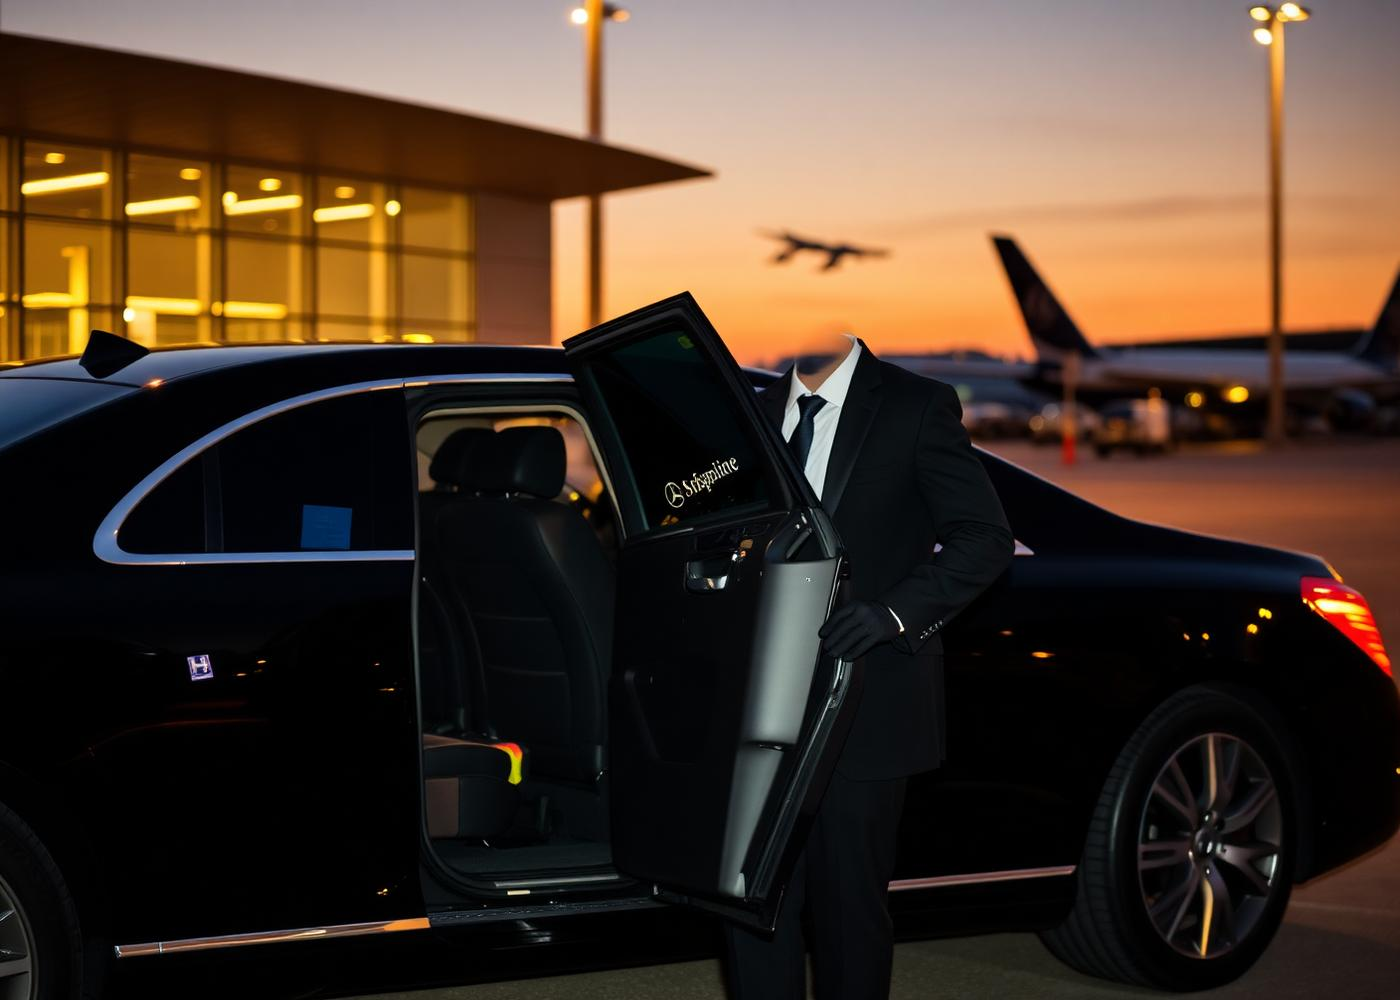
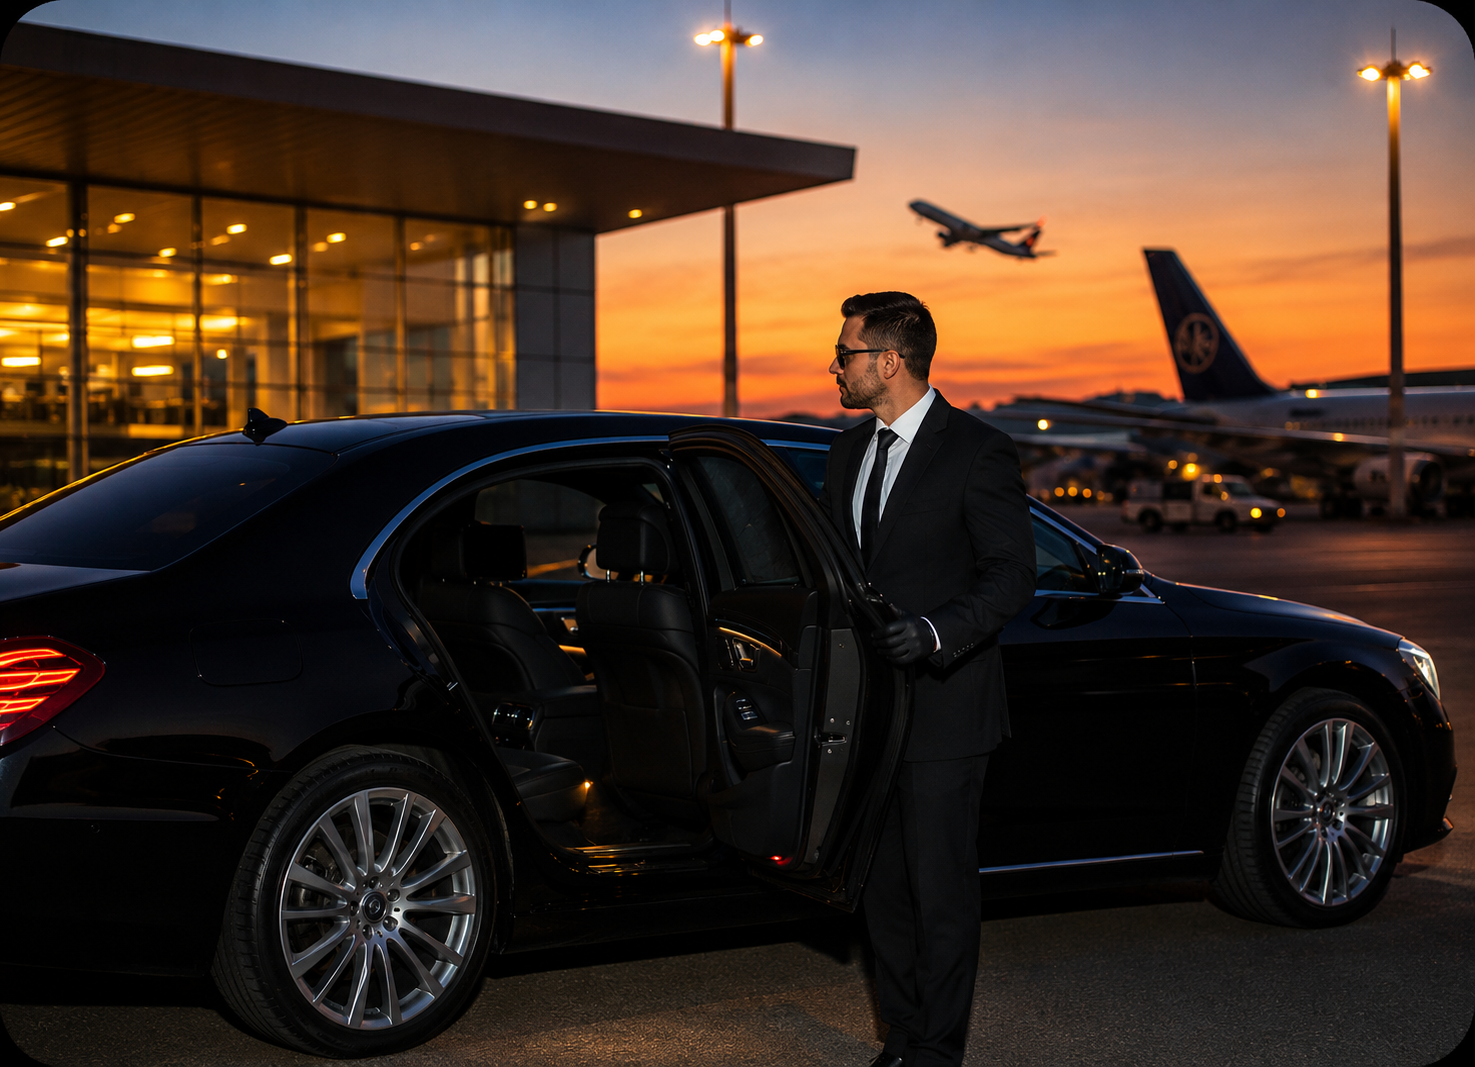
contact updated

diff --git a/page-contact.php b/page-contact.php
@@ -34,29 +34,32 @@ if ( $_SERVER['REQUEST_METHOD'] === 'POST' && isset( $_POST['contact_submit'] ) 
 ?>
 
 <section class="relative flex min-h-[62vh] items-end overflow-hidden pt-32 pb-16">
-  <img src="<?php echo get_template_directory_uri(); ?>/assets/images/about.jpg" alt="" class="absolute inset-0 h-full w-full object-cover opacity-40">
-  <div class="absolute inset-0 bg-gradient-to-b from-ink/70 via-ink/60 to-ink"></div>
-  <div class="relative mx-auto w-full max-w-7xl px-6 lg:px-10">
-    <div class="flex items-center gap-3">
-      <span class="h-px w-8 bg-gold"></span>
-      <span class="text-xs uppercase tracking-[0.32em] text-gold">Contact</span>
+    <img src="<?php echo get_template_directory_uri(); ?>/assets/images/about.jpg" alt=""
+        class="absolute inset-0 h-full w-full object-cover opacity-40">
+    <div class="absolute inset-0 bg-gradient-to-b from-ink/70 via-ink/60 to-ink"></div>
+    <div class="relative mx-auto w-full max-w-7xl px-6 lg:px-10">
+        <div class="flex items-center gap-3">
+            <span class="h-px w-8 bg-gold"></span>
+            <span class="text-xs uppercase tracking-[0.32em] text-gold">Contact</span>
+        </div>
+        <h1 class="mt-4 max-w-3xl font-display text-4xl leading-[1.05] text-foreground md:text-6xl">We're here, 24 hours
+            a day.</h1>
+        <p class="mt-5 max-w-2xl text-base text-muted-foreground md:text-lg">
+            Speak with our reservations team by phone, email or WhatsApp — or send us a message and we'll respond within
+            minutes.
+        </p>
     </div>
-    <h1 class="mt-4 max-w-3xl font-display text-4xl leading-[1.05] text-foreground md:text-6xl">We're here, 24 hours a day.</h1>
-    <p class="mt-5 max-w-2xl text-base text-muted-foreground md:text-lg">
-      Speak with our reservations team by phone, email or WhatsApp — or send us a message and we'll respond within minutes.
-    </p>
-  </div>
 </section>
 
 <section class="mx-auto max-w-7xl px-6 py-20 lg:px-10 lg:py-28">
-  <div class="grid gap-10 lg:grid-cols-[1fr_1.2fr]">
-    <div class="space-y-4">
-      <?php
+    <div class="grid gap-10 lg:grid-cols-[1fr_1.2fr]">
+        <div class="space-y-4">
+            <?php
       $contacts = [
-        ['icon' => '<path d="M13.832 16.568a1 1 0 0 0 1.213-.303l.355-.465A2 2 0 0 1 17 15h3a2 2 0 0 1 2 2v3a2 2 0 0 1-2 2A18 18 0 0 1 2 4a2 2 0 0 1 2-2h3a2 2 0 0 1 2 2v3a2 2 0 0 1-.8 1.6l-.468.351a1 1 0 0 0-.292 1.233 14 14 0 0 0 6.392 6.384"/>', 'label' => 'Reservations', 'value' => '+44 1234 567 890', 'href' => 'tel:+441234567890'],
+        ['icon' => '<path d="M13.832 16.568a1 1 0 0 0 1.213-.303l.355-.465A2 2 0 0 1 17 15h3a2 2 0 0 1 2 2v3a2 2 0 0 1-2 2A18 18 0 0 1 2 4a2 2 0 0 1 2-2h3a2 2 0 0 1 2 2v3a2 2 0 0 1-.8 1.6l-.468.351a1 1 0 0 0-.292 1.233 14 14 0 0 0 6.392 6.384"/>', 'label' => 'Reservations', 'value' => '07456714214', 'href' => 'tel:07456714214'],
         ['icon' => '<rect width="20" height="16" x="2" y="4" rx="2"/><path d="m22 7-8.97 5.7a1.94 1.94 0 0 1-2.06 0L2 7"/>', 'label' => 'Email', 'value' => '[email redacted]', 'href' => 'mailto:[email redacted]'],
-        ['icon' => '<path d="M7.9 20A9 9 0 1 0 4 16.1L2 22Z"/>', 'label' => 'WhatsApp', 'value' => 'Message us instantly', 'href' => 'https://wa.me/441234567890'],
-        ['icon' => '<path d="m21.73 18-8-14a2 2 0 0 0-3.48 0l-8 14A2 2 0 0 0 4 21h16a2 2 0 0 0 1.73-3Z"/><path d="M12 9v4"/><path d="M12 17h.01"/>', 'label' => 'Emergency Line', 'value' => '+44 1234 999 000', 'href' => 'tel:+441234999000'],
+        ['icon' => '<path d="M7.9 20A9 9 0 1 0 4 16.1L2 22Z"/>', 'label' => 'WhatsApp', 'value' => 'Message us instantly', 'href' => 'https://wa.me/07456714214'],
+        ['icon' => '<path d="m21.73 18-8-14a2 2 0 0 0-3.48 0l-8 14A2 2 0 0 0 4 21h16a2 2 0 0 0 1.73-3Z"/><path d="M12 9v4"/><path d="M12 17h.01"/>', 'label' => 'Emergency Line', 'value' => '07456714214', 'href' => 'tel:07456714214'],
         ['icon' => '<circle cx="12" cy="12" r="10"/><polyline points="12 6 12 12 16 14"/>', 'label' => 'Business Hours', 'value' => '24 / 7 · 365 days a year', 'href' => null],
         ['icon' => '<path d="M20 10c0 4.993-5.539 10.193-7.399 11.799a1 1 0 0 1-1.202 0C9.539 20.193 4 14.993 4 10a8 8 0 0 1 16 0"/><circle cx="12" cy="10" r="3"/>', 'label' => 'Service Area', 'value' => 'United Kingdom — nationwide', 'href' => null],
       ];
@@ -70,57 +73,61 @@ if ( $_SERVER['REQUEST_METHOD'] === 'POST' && isset( $_POST['contact_submit'] ) 
             <p class="mt-1 truncate text-sm text-foreground/90">' . $c['value'] . '</p>
           </div>';
         if ($c['href']): ?>
-          <a href="<?php echo $c['href']; ?>" class="glass-card flex items-center gap-4 rounded-2xl p-5"><?php echo $inner; ?></a>
-        <?php else: ?>
-          <div class="glass-card flex items-center gap-4 rounded-2xl p-5"><?php echo $inner; ?></div>
-        <?php endif;
+            <a href="<?php echo $c['href']; ?>"
+                class="glass-card flex items-center gap-4 rounded-2xl p-5"><?php echo $inner; ?></a>
+            <?php else: ?>
+            <div class="glass-card flex items-center gap-4 rounded-2xl p-5"><?php echo $inner; ?></div>
+            <?php endif;
       endforeach; ?>
+        </div>
+
+        <?php if ($contactSent): ?>
+        <div class="glass-card rounded-3xl p-10 text-center">
+            <div class="mx-auto grid h-14 w-14 place-items-center rounded-full bg-gold text-ink">
+                <svg xmlns="http://www.w3.org/2000/svg" class="h-7 w-7" viewBox="0 0 24 24" fill="none"
+                    stroke="currentColor" stroke-width="2" stroke-linecap="round" stroke-linejoin="round">
+                    <path d="M20 6 9 17l-5-5" />
+                </svg>
+            </div>
+            <h2 class="mt-6 font-display text-2xl">Message sent.</h2>
+            <p class="mt-3 text-muted-foreground">Thanks for reaching out — our team will reply shortly.</p>
+        </div>
+        <?php else: ?>
+        <form class="glass-card space-y-5 rounded-3xl p-8 md:p-10" method="post" action="">
+            <div class="grid gap-5 md:grid-cols-2">
+                <div>
+                    <label class="mb-2 block text-xs uppercase tracking-widest text-muted-foreground">Name</label>
+                    <input name="name" class="<?php echo $inputCls; ?>" required>
+                </div>
+                <div>
+                    <label class="mb-2 block text-xs uppercase tracking-widest text-muted-foreground">Phone</label>
+                    <input type="tel" name="phone" class="<?php echo $inputCls; ?>" required>
+                </div>
+            </div>
+            <div>
+                <label class="mb-2 block text-xs uppercase tracking-widest text-muted-foreground">Email</label>
+                <input type="email" name="email" class="<?php echo $inputCls; ?>" required>
+            </div>
+            <div>
+                <label class="mb-2 block text-xs uppercase tracking-widest text-muted-foreground">Subject</label>
+                <input name="subject" class="<?php echo $inputCls; ?>">
+            </div>
+            <div>
+                <label class="mb-2 block text-xs uppercase tracking-widest text-muted-foreground">Message</label>
+                <textarea name="message" rows="6" class="<?php echo $inputCls; ?>" required></textarea>
+            </div>
+            <?php wp_nonce_field( 'oracle_contact_form', 'oracle_contact_nonce' ); ?>
+            <input type="hidden" name="contact_submit" value="1">
+            <button type="submit" class="w-full rounded-full btn-gold px-8 py-4 text-sm">Send Message</button>
+        </form>
+        <?php endif; ?>
     </div>
 
-    <?php if ($contactSent): ?>
-      <div class="glass-card rounded-3xl p-10 text-center">
-        <div class="mx-auto grid h-14 w-14 place-items-center rounded-full bg-gold text-ink">
-          <svg xmlns="http://www.w3.org/2000/svg" class="h-7 w-7" viewBox="0 0 24 24" fill="none" stroke="currentColor" stroke-width="2" stroke-linecap="round" stroke-linejoin="round"><path d="M20 6 9 17l-5-5"/></svg>
-        </div>
-        <h2 class="mt-6 font-display text-2xl">Message sent.</h2>
-        <p class="mt-3 text-muted-foreground">Thanks for reaching out — our team will reply shortly.</p>
-      </div>
-    <?php else: ?>
-      <form class="glass-card space-y-5 rounded-3xl p-8 md:p-10" method="post" action="">
-        <div class="grid gap-5 md:grid-cols-2">
-          <div>
-            <label class="mb-2 block text-xs uppercase tracking-widest text-muted-foreground">Name</label>
-            <input name="name" class="<?php echo $inputCls; ?>" required>
-          </div>
-          <div>
-            <label class="mb-2 block text-xs uppercase tracking-widest text-muted-foreground">Phone</label>
-            <input type="tel" name="phone" class="<?php echo $inputCls; ?>" required>
-          </div>
-        </div>
-        <div>
-          <label class="mb-2 block text-xs uppercase tracking-widest text-muted-foreground">Email</label>
-          <input type="email" name="email" class="<?php echo $inputCls; ?>" required>
-        </div>
-        <div>
-          <label class="mb-2 block text-xs uppercase tracking-widest text-muted-foreground">Subject</label>
-          <input name="subject" class="<?php echo $inputCls; ?>">
-        </div>
-        <div>
-          <label class="mb-2 block text-xs uppercase tracking-widest text-muted-foreground">Message</label>
-          <textarea name="message" rows="6" class="<?php echo $inputCls; ?>" required></textarea>
-        </div>
-        <?php wp_nonce_field( 'oracle_contact_form', 'oracle_contact_nonce' ); ?>
-        <input type="hidden" name="contact_submit" value="1">
-        <button type="submit" class="w-full rounded-full btn-gold px-8 py-4 text-sm">Send Message</button>
-      </form>
-    <?php endif; ?>
-  </div>
-
-  <div class="mt-16 overflow-hidden rounded-3xl border border-white/5">
-    <iframe title="Service area map"
+    <div class="mt-16 overflow-hidden rounded-3xl border border-white/5">
+        <iframe title="Service area map"
             src="https://www.openstreetmap.org/export/embed.html?bbox=-8.65%2C49.9%2C1.76%2C58.7&amp;layer=mapnik"
             class="grayscale-map h-[420px] w-full" loading="lazy"></iframe>
-  </div>
+    </div>
 </section>
 
 <?php get_footer(); ?>

diff --git a/footer.php b/footer.php
@@ -6,7 +6,8 @@
     <div>
       <div class="flex items-center gap-3">
         <div class="relative flex shrink-0 items-center justify-center overflow-hidden bg-ink">
-          <img src="<?php echo esc_url( get_template_directory_uri() . '/assets/images/oracel.png' ); ?>" alt="Oracle Logo" width="100" height="70" class="object-cover">
+          <img src="<?php echo esc_url(get_template_directory_uri() . '/assets/images/oracel.png'); ?>"
+            alt="Oracle Logo" width="100" height="70" class="object-cover">
         </div>
       </div>
       <p class="mt-5 max-w-xs text-sm leading-relaxed text-muted-foreground">
@@ -15,14 +16,29 @@
         timeless comfort.
       </p>
       <div class="mt-6 flex gap-3">
-        <a href="#" aria-label="Facebook" class="grid h-10 w-10 place-items-center rounded-full border border-white/10 text-foreground/70 transition-all hover:border-gold hover:text-gold">
-          <svg xmlns="http://www.w3.org/2000/svg" class="h-4 w-4" viewBox="0 0 24 24" fill="none" stroke="currentColor" stroke-width="2" stroke-linecap="round" stroke-linejoin="round"><path d="M18 2h-3a5 5 0 0 0-5 5v3H7v4h3v8h4v-8h3l1-4h-4V7a1 1 0 0 1 1-1h3z"/></svg>
+        <a href="#" aria-label="Facebook"
+          class="grid h-10 w-10 place-items-center rounded-full border border-white/10 text-foreground/70 transition-all hover:border-gold hover:text-gold">
+          <svg xmlns="http://www.w3.org/2000/svg" class="h-4 w-4" viewBox="0 0 24 24" fill="none"
+            stroke="currentColor" stroke-width="2" stroke-linecap="round" stroke-linejoin="round">
+            <path d="M18 2h-3a5 5 0 0 0-5 5v3H7v4h3v8h4v-8h3l1-4h-4V7a1 1 0 0 1 1-1h3z" />
+          </svg>
         </a>
-        <a href="#" aria-label="Instagram" class="grid h-10 w-10 place-items-center rounded-full border border-white/10 text-foreground/70 transition-all hover:border-gold hover:text-gold">
-          <svg xmlns="http://www.w3.org/2000/svg" class="h-4 w-4" viewBox="0 0 24 24" fill="none" stroke="currentColor" stroke-width="2" stroke-linecap="round" stroke-linejoin="round"><rect width="20" height="20" x="2" y="2" rx="5" ry="5"/><path d="M16 11.37A4 4 0 1 1 12.63 8 4 4 0 0 1 16 11.37z"/><line x1="17.5" x2="17.51" y1="6.5" y2="6.5"/></svg>
+        <a href="#" aria-label="Instagram"
+          class="grid h-10 w-10 place-items-center rounded-full border border-white/10 text-foreground/70 transition-all hover:border-gold hover:text-gold">
+          <svg xmlns="http://www.w3.org/2000/svg" class="h-4 w-4" viewBox="0 0 24 24" fill="none"
+            stroke="currentColor" stroke-width="2" stroke-linecap="round" stroke-linejoin="round">
+            <rect width="20" height="20" x="2" y="2" rx="5" ry="5" />
+            <path d="M16 11.37A4 4 0 1 1 12.63 8 4 4 0 0 1 16 11.37z" />
+            <line x1="17.5" x2="17.51" y1="6.5" y2="6.5" />
+          </svg>
         </a>
-        <a href="#" aria-label="Twitter" class="grid h-10 w-10 place-items-center rounded-full border border-white/10 text-foreground/70 transition-all hover:border-gold hover:text-gold">
-          <svg xmlns="http://www.w3.org/2000/svg" class="h-4 w-4" viewBox="0 0 24 24" fill="none" stroke="currentColor" stroke-width="2" stroke-linecap="round" stroke-linejoin="round"><path d="M22 4s-.7 2.1-2 3.4c1.6 10-9.4 17.3-18 11.6 2.2.1 4.4-.6 6-2C3 15.5 1.5 9.6 2 4c2.2 2.6 5.6 4.1 9 4-.9-4.2 4-6.6 7-3.8 1.1 0 3-1.2 3-1.2z"/></svg>
+        <a href="#" aria-label="Twitter"
+          class="grid h-10 w-10 place-items-center rounded-full border border-white/10 text-foreground/70 transition-all hover:border-gold hover:text-gold">
+          <svg xmlns="http://www.w3.org/2000/svg" class="h-4 w-4" viewBox="0 0 24 24" fill="none"
+            stroke="currentColor" stroke-width="2" stroke-linecap="round" stroke-linejoin="round">
+            <path
+              d="M22 4s-.7 2.1-2 3.4c1.6 10-9.4 17.3-18 11.6 2.2.1 4.4-.6 6-2C3 15.5 1.5 9.6 2 4c2.2 2.6 5.6 4.1 9 4-.9-4.2 4-6.6 7-3.8 1.1 0 3-1.2 3-1.2z" />
+          </svg>
         </a>
       </div>
     </div>
@@ -30,12 +46,18 @@
     <div>
       <h4 class="text-xs uppercase tracking-[0.28em] text-gold">Quick Links</h4>
       <ul class="mt-5 space-y-3 text-sm">
-        <li><a href="<?php echo esc_url( home_url( '/about/' ) ); ?>" class="text-muted-foreground transition-colors hover:text-gold">About Us</a></li>
-        <li><a href="<?php echo esc_url( home_url( '/services/' ) ); ?>" class="text-muted-foreground transition-colors hover:text-gold">Our Services</a></li>
-        <li><a href="<?php echo esc_url( home_url( '/fleet/' ) ); ?>" class="text-muted-foreground transition-colors hover:text-gold">Fleet</a></li>
-        <li><a href="<?php echo esc_url( home_url( '/airport-transfers/' ) ); ?>" class="text-muted-foreground transition-colors hover:text-gold">Airport Transfers</a></li>
-        <li><a href="<?php echo esc_url( home_url( '/booking/' ) ); ?>" class="text-muted-foreground transition-colors hover:text-gold">Booking</a></li>
-        <li><a href="<?php echo esc_url( home_url( '/faqs/' ) ); ?>" class="text-muted-foreground transition-colors hover:text-gold">FAQs</a></li>
+        <li><a href="<?php echo esc_url(home_url('/about/')); ?>"
+            class="text-muted-foreground transition-colors hover:text-gold">About Us</a></li>
+        <li><a href="<?php echo esc_url(home_url('/services/')); ?>"
+            class="text-muted-foreground transition-colors hover:text-gold">Our Services</a></li>
+        <li><a href="<?php echo esc_url(home_url('/fleet/')); ?>"
+            class="text-muted-foreground transition-colors hover:text-gold">Fleet</a></li>
+        <li><a href="<?php echo esc_url(home_url('/airport-transfers/')); ?>"
+            class="text-muted-foreground transition-colors hover:text-gold">Airport Transfers</a></li>
+        <li><a href="<?php echo esc_url(home_url('/booking/')); ?>"
+            class="text-muted-foreground transition-colors hover:text-gold">Booking</a></li>
+        <li><a href="<?php echo esc_url(home_url('/faqs/')); ?>"
+            class="text-muted-foreground transition-colors hover:text-gold">FAQs</a></li>
       </ul>
     </div>
 
@@ -43,19 +65,41 @@
       <h4 class="text-xs uppercase tracking-[0.28em] text-gold">Contact</h4>
       <ul class="mt-5 space-y-4 text-sm text-muted-foreground">
         <li class="flex items-start gap-3">
-          <svg xmlns="http://www.w3.org/2000/svg" class="mt-0.5 h-4 w-4 shrink-0 text-gold" viewBox="0 0 24 24" fill="none" stroke="currentColor" stroke-width="2" stroke-linecap="round" stroke-linejoin="round"><path d="M13.832 16.568a1 1 0 0 0 1.213-.303l.355-.465A2 2 0 0 1 17 15h3a2 2 0 0 1 2 2v3a2 2 0 0 1-2 2A18 18 0 0 1 2 4a2 2 0 0 1 2-2h3a2 2 0 0 1 2 2v3a2 2 0 0 1-.8 1.6l-.468.351a1 1 0 0 0-.292 1.233 14 14 0 0 0 6.392 6.384"/></svg>
-          <a href="tel:+441234567890" class="hover:text-gold">+44 1234 567 890</a>
+          <svg xmlns="http://www.w3.org/2000/svg" class="mt-0.5 h-4 w-4 shrink-0 text-gold"
+            viewBox="0 0 24 24" fill="none" stroke="currentColor" stroke-width="2" stroke-linecap="round"
+            stroke-linejoin="round">
+            <path
+              d="M13.832 16.568a1 1 0 0 0 1.213-.303l.355-.465A2 2 0 0 1 17 15h3a2 2 0 0 1 2 2v3a2 2 0 0 1-2 2A18 18 0 0 1 2 4a2 2 0 0 1 2-2h3a2 2 0 0 1 2 2v3a2 2 0 0 1-.8 1.6l-.468.351a1 1 0 0 0-.292 1.233 14 14 0 0 0 6.392 6.384" />
+          </svg>
+          <a href="tel:+07456714214" class="hover:text-gold">07456714214</a>
         </li>
         <li class="flex items-start gap-3">
-          <svg xmlns="http://www.w3.org/2000/svg" class="mt-0.5 h-4 w-4 shrink-0 text-gold" viewBox="0 0 24 24" fill="none" stroke="currentColor" stroke-width="2" stroke-linecap="round" stroke-linejoin="round"><rect width="20" height="16" x="2" y="4" rx="2"/><path d="m22 7-8.97 5.7a1.94 1.94 0 0 1-2.06 0L2 7"/></svg>
-          <a href="mailto:[email redacted]" class="hover:text-gold">[email redacted]</a>
+          <svg xmlns="http://www.w3.org/2000/svg" class="mt-0.5 h-4 w-4 shrink-0 text-gold"
+            viewBox="0 0 24 24" fill="none" stroke="currentColor" stroke-width="2" stroke-linecap="round"
+            stroke-linejoin="round">
+            <rect width="20" height="16" x="2" y="4" rx="2" />
+            <path d="m22 7-8.97 5.7a1.94 1.94 0 0 1-2.06 0L2 7" />
+          </svg>
+          <a href="mailto:[email redacted]"
+            class="hover:text-gold">[email redacted]</a>
         </li>
         <li class="flex items-start gap-3">
-          <svg xmlns="http://www.w3.org/2000/svg" class="mt-0.5 h-4 w-4 shrink-0 text-gold" viewBox="0 0 24 24" fill="none" stroke="currentColor" stroke-width="2" stroke-linecap="round" stroke-linejoin="round"><path d="M20 10c0 4.993-5.539 10.193-7.399 11.799a1 1 0 0 1-1.202 0C9.539 20.193 4 14.993 4 10a8 8 0 0 1 16 0"/><circle cx="12" cy="10" r="3"/></svg>
+          <svg xmlns="http://www.w3.org/2000/svg" class="mt-0.5 h-4 w-4 shrink-0 text-gold"
+            viewBox="0 0 24 24" fill="none" stroke="currentColor" stroke-width="2" stroke-linecap="round"
+            stroke-linejoin="round">
+            <path
+              d="M20 10c0 4.993-5.539 10.193-7.399 11.799a1 1 0 0 1-1.202 0C9.539 20.193 4 14.993 4 10a8 8 0 0 1 16 0" />
+            <circle cx="12" cy="10" r="3" />
+          </svg>
           <span>United Kingdom &mdash; nationwide service</span>
         </li>
         <li class="flex items-start gap-3">
-          <svg xmlns="http://www.w3.org/2000/svg" class="mt-0.5 h-4 w-4 shrink-0 text-gold" viewBox="0 0 24 24" fill="none" stroke="currentColor" stroke-width="2" stroke-linecap="round" stroke-linejoin="round"><circle cx="12" cy="12" r="10"/><polyline points="12 6 12 12 16 14"/></svg>
+          <svg xmlns="http://www.w3.org/2000/svg" class="mt-0.5 h-4 w-4 shrink-0 text-gold"
+            viewBox="0 0 24 24" fill="none" stroke="currentColor" stroke-width="2" stroke-linecap="round"
+            stroke-linejoin="round">
+            <circle cx="12" cy="12" r="10" />
+            <polyline points="12 6 12 12 16 14" />
+          </svg>
           <span>Available 24 / 7, 365 days</span>
         </li>
       </ul>
@@ -67,13 +111,16 @@
         Book your executive transfer online in under two minutes. Fixed
         fares, no surge pricing, ever.
       </p>
-      <a href="<?php echo esc_url( home_url( '/booking/' ) ); ?>" class="mt-5 inline-block rounded-full btn-gold px-6 py-3 text-sm">Book Now</a>
+      <a href="<?php echo esc_url(home_url('/booking/')); ?>"
+        class="mt-5 inline-block rounded-full btn-gold px-6 py-3 text-sm">Book Now</a>
     </div>
   </div>
 
   <div class="border-t border-white/5">
-    <div class="mx-auto flex max-w-7xl flex-col items-center justify-between gap-3 px-6 py-6 text-xs text-muted-foreground md:flex-row lg:px-10">
-      <p>&copy; <span id="year"><?php echo esc_html( date( 'Y' ) ); ?></span> Oracle Private Hire. All rights reserved.</p>
+    <div
+      class="mx-auto flex max-w-7xl flex-col items-center justify-between gap-3 px-6 py-6 text-xs text-muted-foreground md:flex-row lg:px-10">
+      <p>&copy; <span id="year"><?php echo esc_html(date('Y')); ?></span> Oracle Private Hire. All rights
+        reserved.</p>
       <div class="flex gap-6">
         <a href="#" class="hover:text-gold">Privacy Policy</a>
         <a href="#" class="hover:text-gold">Terms &amp; Conditions</a>
@@ -85,4 +132,5 @@
 
 <?php wp_footer(); ?>
 </body>
+
 </html>

diff --git a/page-booking.php b/page-booking.php
@@ -116,6 +116,29 @@ if ($_SERVER['REQUEST_METHOD'] === 'POST' && isset($_POST['final_submit']) && is
     <?php else: ?>
       <form id="booking-form" class="glass-card space-y-6 rounded-3xl p-8 md:p-12" method="post" action="">
 
+        <!-- Step 3: Details -->
+        <div class="booking-step grid gap-5 md:grid-cols-2">
+          <div>
+            <label class="mb-2 block text-xs uppercase tracking-[0.2em] text-muted-foreground">Full Name</label>
+            <input type="text" name="full_name" placeholder="Enter your name"
+              class="<?php echo $inputCls; ?> !text-black !bg-white placeholder:!text-muted-foreground"
+              required>
+          </div>
+          <div>
+            <label class="mb-2 block text-xs uppercase tracking-[0.2em] text-muted-foreground">Phone</label>
+            <input type="tel" name="phone" placeholder="Enter your phone"
+              class="<?php echo $inputCls; ?> !text-black !bg-white placeholder:!text-muted-foreground"
+              required>
+          </div>
+          <div class="md:col-span-2">
+            <label class="mb-2 block text-xs uppercase tracking-[0.2em] text-muted-foreground">Email</label>
+            <input type="email" name="email" placeholder="Enter your email"
+              class="<?php echo $inputCls; ?> !text-black !bg-white placeholder:!text-muted-foreground"
+              required>
+          </div>
+
+        </div>
+
         <!-- Step 1: Journey -->
         <div class="booking-step active grid gap-5 md:grid-cols-2">
           <div>
@@ -192,28 +215,7 @@ if ($_SERVER['REQUEST_METHOD'] === 'POST' && isset($_POST['final_submit']) && is
           </div>
         </div>
 
-        <!-- Step 3: Details -->
-        <div class="booking-step grid gap-5 md:grid-cols-2">
-          <div>
-            <label class="mb-2 block text-xs uppercase tracking-[0.2em] text-muted-foreground">Full Name</label>
-            <input type="text" name="full_name" placeholder="Enter your name"
-              class="<?php echo $inputCls; ?> !text-black !bg-white placeholder:!text-muted-foreground"
-              required>
-          </div>
-          <div>
-            <label class="mb-2 block text-xs uppercase tracking-[0.2em] text-muted-foreground">Phone</label>
-            <input type="tel" name="phone" placeholder="Enter your phone"
-              class="<?php echo $inputCls; ?> !text-black !bg-white placeholder:!text-muted-foreground"
-              required>
-          </div>
-          <div class="md:col-span-2">
-            <label class="mb-2 block text-xs uppercase tracking-[0.2em] text-muted-foreground">Email</label>
-            <input type="email" name="email" placeholder="Enter your email"
-              class="<?php echo $inputCls; ?> !text-black !bg-white placeholder:!text-muted-foreground"
-              required>
-          </div>
-
-        </div>
+        <!-- back and continue buttons -->
         <div class="flex flex-wrap items-center justify-between gap-3 pt-4">
           <button type="button" id="booking-back" disabled
             class="inline-flex items-center gap-2 rounded-full btn-ghost-gold px-6 py-3 text-sm disabled:opacity-40 disabled:cursor-not-allowed">
@@ -234,6 +236,7 @@ if ($_SERVER['REQUEST_METHOD'] === 'POST' && isset($_POST['final_submit']) && is
             </svg>
           </button>
         </div>
+
       </form>
     <?php endif; ?>
   </div>